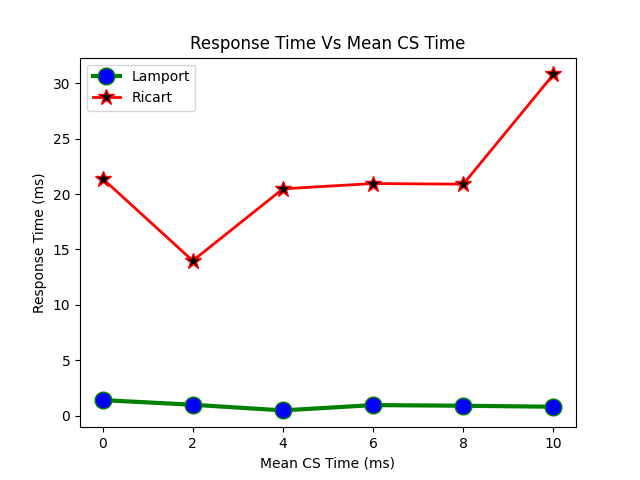
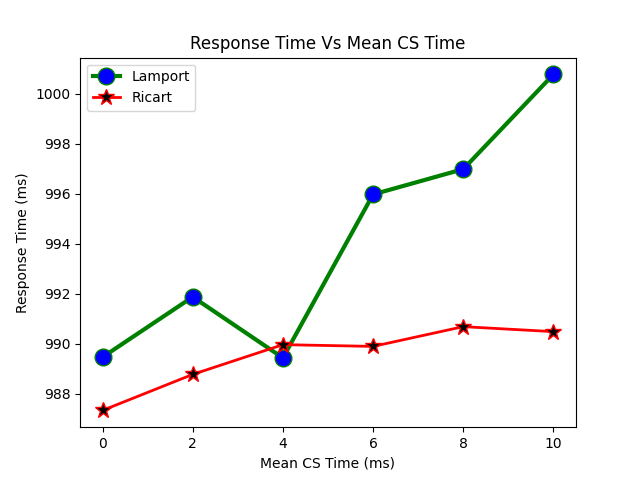
Changed plots.py

diff --git a/go/plots.py b/go/plots.py
@@ -9,8 +9,8 @@ d = list(range(0,12,2))
 # print(d)
 
 # Input all the values for the response_time
-response_time_lamport = [12.23, 10.84, 11.34, 10.95, 10.39, 11.11]
-response_time_ricart = [11.4, 12.98, 10.47, 10.95, 10.89, 10.81]
+response_time_lamport = [980.84, 981.98, 985.34, 1000.95, 1000.29, 1000.89]
+response_time_ricart = [975.56, 976.88, 976.47, 978.57, 980.79, 984.99]
 f1 = plt.figure(1)
 plt.plot(d, response_time_lamport, label="lamport", color='green', linewidth = 3, marker='o', markerfacecolor='blue', markersize=12)
 plt.plot(d, response_time_ricart, label="ricart", color='red', linewidth = 2, marker='*', markerfacecolor='black', markersize=12)
@@ -31,8 +31,8 @@ d = list(range(0,12,2))
 # print(d)
 
 # Input all the values for system_throughput
-system_throughput_lamport = [0.034,0.0358,0.0341,0.0357,0.034,0.0346]
-system_throughput_ricart = [0.0341,0.0328,0.0356,0.037,0.0331,0.0353]
+system_throughput_lamport = [0.0000529,0.0000512,0.0000510,0.000050,0.000049,0.000046]
+system_throughput_ricart = [0.000050,0.000049,0.0000423,0.0000425,0.0000421,0.0000420]
 f2 = plt.figure(2)
 plt.plot(d, system_throughput_lamport, label="lamport", color='red', linewidth = 3, marker='d', markerfacecolor='blue', markersize=12)
 plt.plot(d, system_throughput_ricart, label="ricart", color='black', linewidth = 2, marker='o', markerfacecolor='green', markersize=12)
@@ -55,8 +55,8 @@ cs = list(range(0,12,2))
 # print(cs)
 
 # Input all the values for the response_time
-response_time_lamport = [1.4, 0.98, 0.47, 0.95, 0.89, 0.8]
-response_time_ricart = [21.4, 13.98, 20.47, 20.95, 20.89, 30.8]
+response_time_lamport = [989.47, 991.88, 989.44, 995.98, 996.99, 1000.78]
+response_time_ricart = [987.34, 988.78, 989.97, 989.90, 990.69, 990.49]
 
 f3 = plt.figure(3)
 plt.plot(d, response_time_lamport, label="lamport", color='green', linewidth = 3, marker='o', markerfacecolor='blue', markersize=12)
@@ -78,8 +78,8 @@ cs = list(range(0,12,2))
 # print(cs)
 
 # Input all the values for system_throughput
-system_throughput_lamport = [0.034,0.0358,0.0341,0.0357,0.034,0.0346]
-system_throughput_ricart = [0.0341,0.0328,0.0356,0.037,0.0331,0.0353]
+system_throughput_lamport = [0.000054,0.000053,0.000051,0.000049,0.0000489,0.0000479]
+system_throughput_ricart = [0.000044,0.000042,0.000043,0.0000432,0.0000431,0.0000430]
 f4 = plt.figure(4)
 
 plt.plot(d, system_throughput_lamport, label="lamport", color='red', linewidth = 3, marker='d', markerfacecolor='blue', markersize=12)
